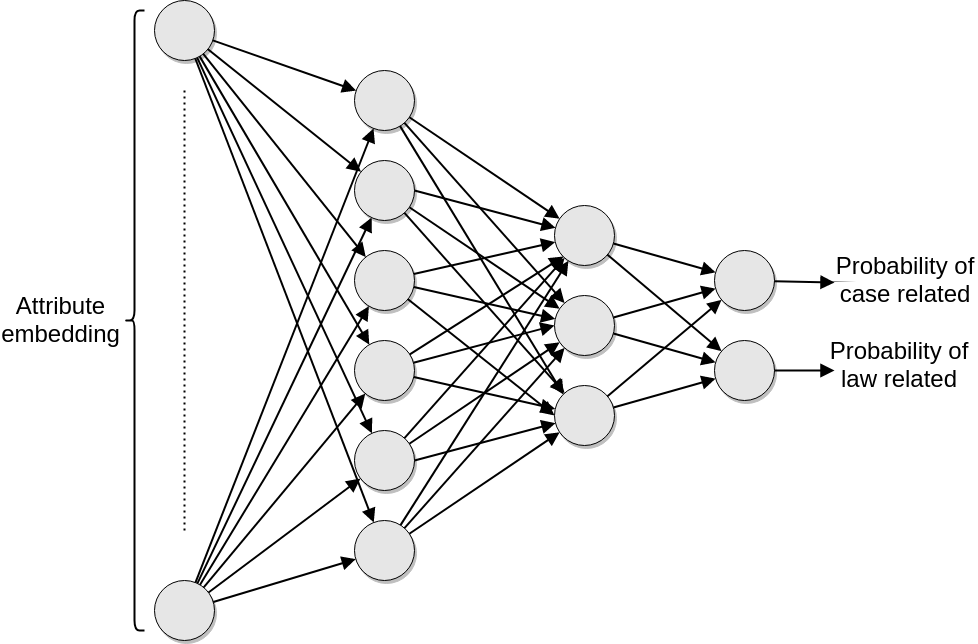
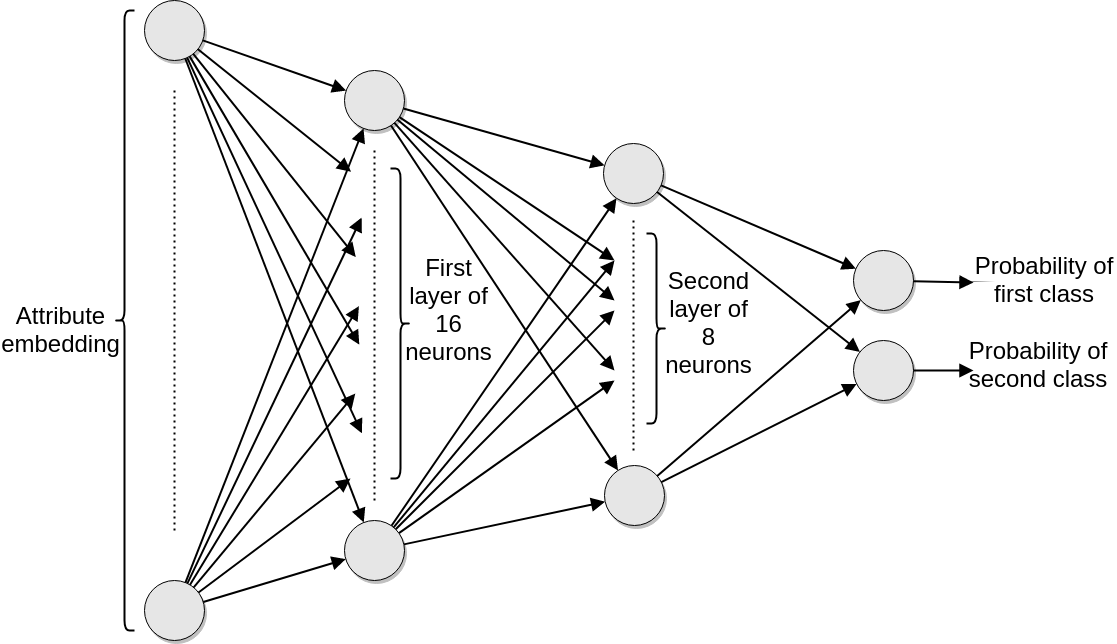
finished without corectur

Changed region(s): [[0.0, 0.0, 1.0, 1.0], [0.6748, 0.6522, 0.7055, 0.6832], [0.6748, 0.3416, 0.7055, 0.3727]]

diff --git a/fi-pdflatex.tex b/fi-pdflatex.tex
@@ -55,15 +55,15 @@
     TeXtitle      = {Automatic Classification of Legal Documents},
     keywords      = {electronic discovery, machine learning, legal domain, natural language processing},
     TeXkeywords   = {electronic discovery, machine learning, legal domain, natural language processing},
-    abstract      = {The thesis focuses on an automation of electronic discovery by predicting relevance of legal documents.
-    The first contribution of this thesis is a description and understanding of the legal data characteristics and a research of the most suitable classification algorithm for the relevance prediction.
+    abstract      = {The thesis focuses on automation of electronic discovery by predicting the relevance of legal documents.
+    The first contribution of this thesis is a description and understanding of the legal data characteristics and research of the most suitable classification algorithm for the relevance prediction.
     The second contribution is a design and implementation of a system for automatic classification of legal documents, which applies the knowledge from this research.
     The system is integrated with the Legato system, which is a collaborative system for documents management that provides comprehensive control over legal cases.},
-    thanks        = {I would like to thank RNDr. Zuzana Nevěřilová, Ph.D. for her support, precious advices and professional guidance. Great thanks also belongs to Ing. Libor Kubečka for the technical guidance, valuable discussions, and patience. Finally, I would like to thank to my family and friends for the support during all my studies.},
+    thanks        = {I would like to thank RNDr. Zuzana Nevěřilová, Ph.D. for her support, precious pieces of advice and professional guidance. Special thanks also go to Ing. Libor Kubečka for the technical guidance, valuable discussions, and patience. Finally, I would like to thank my family and friends for the support during all my studies.},
     bib           = example.bib,
 }
-\usepackage{makeidx}      %% The `makeidx` package contains
-\makeindex                %% helper commands for index typesetting.
+% \usepackage{makeidx}      %% The `makeidx` package contains
+% \makeindex                %% helper commands for index typesetting.
 %% These additional packages are used within the document:
 \usepackage{paralist} %% Compact list environments
 \usepackage{amsmath}  %% Mathematics
@@ -90,35 +90,36 @@
 \DeclareRobustCommand{\bbone}{\text{\usefont{U}{bbold}{m}{n}1}}
 \DeclareMathOperator{\EX}{\mathbb{E}}% expected value
 \usepackage[table]{xcolor}
+\usepackage{tabularx}
 \usepackage{subcaption}
 
 \begin{document}
 \chapter*{Introduction}
 \addcontentsline{toc}{chapter}{Introduction}
 When lawyers, attorneys or paralegals obtain a legal case to work on, one of the first steps is the \textit{Electronic Discovery}.
-They need to search, gather, clean, and organize legal documents in order to find evidences in a legal case \cite{Conrad2010ediscovery}.
-With increasing amount of information in the electronic form, the lawyers increase emphasis on an efficient process of the \textit{Electronic Discovery}.
+They need to search, gather, clean, and organize legal documents in order to find pieces of evidence in a legal case \cite{Conrad2010ediscovery}.
+With increasing amount of information in the electronic form, the lawyers put more emphasis on an efficient process of \textit{Electronic Discovery}.
 
-It is not uncommon that a legal case consists of hundreds to thousands of related documents, which a lawyer needs to scan through to understand a case and find a useful information, potentially an evidence.
-Therefore, many automated tools have emerged that are specifically designed to help in the \textit{Electronic Discovery}.
+It is not uncommon that a legal case consists of hundreds to thousands of related documents, which a lawyer needs to scan through to understand a case and find useful information, potentially a shred of evidence.
+Therefore, many automated tools have emerged that are specifically designed to help in the \textit{Electronic Discovery} process.
 The most basic ones enable more or less advanced full-text search, which is a well-studied field called \textit{Information Retrieval}.
-Other field, frequently applied in the legal domain, is the \textit{Artificial Intelligence}, which has delivered a numerous purposeful tools that are trying to substitute a lawyer in various tasks.
+Another field, frequently applied in the legal domain, is the \textit{Artificial Intelligence}, which has delivered numerous purposeful tools that are trying to substitute a lawyer in various tasks.
 The tool presented in this thesis belongs to this category.
 
-The goal of this research is to study, design and evaluate a mechanism that is able to highlight legal documents with important information and filter out the irrelevant.
-Such tool could possibly save the time spent on reading the documents and so, increase the lawyers' efficiency.
-The tool is not expected to be 100\% successful, as the relevance is a subjective factor and usually depends on a wide context, that is hard to acquire by the tool.
-Nevertheless, the tools with at least a reasonable performance has proven to be helpful in the past \cite{roitblat2010comparison}, especially the low-precision \& high-recall systems (more in the section \ref{sec:related_relevance}).
+The goal of this research is to study, design and evaluate a mechanism that is able to highlight legal documents with valuable information and filter out the irrelevant.
+Such tool could save the time spent on reading the documents and thus, increase the lawyers' efficiency.
+The tool is not expected to be 100\% successful, as the relevance is a subjective factor and usually depends on a broad context, that is hard to acquire by the tool.
+Nevertheless, the tools with at least a reasonable performance have proven to be helpful in the past \cite{roitblat2010comparison}, especially the low-precision \& high-recall systems (more in the section \ref{sec:related_relevance}).
 
-The other contribution of this thesis is the implementation of the aforementioned tool and integration with the Legato system. 
-Legato is a collaborative system for legal documents management that provides comprehensive control over legal cases including full-text search, sorting of important information and visualization of events in time.
-The tool presented here belongs to other advanced features complementing the Legato system (\ref{sec:legato_advanced}).
+The other contribution of this thesis is the implementation of the tool mentioned above and integration with the Legato system. 
+Legato is a collaborative system for legal documents management that provides comprehensive control over legal cases including full-text search, sorting of relevant information and visualization of events in time.
+The tool presented here belongs to the group of advanced features complementing the Legato system (\ref{sec:legato_advanced}).
 
 The thesis is structured in the following way.
-The \hyperref[chp:related_work]{first chapter} discusses the previous work on the artificial intelligence in the legal domain, similar tools and how the concept of relevance is understood in the legal domain.
-The \hyperref[chp:legato]{second chapter} introduces the Legato system, its main use cases and advanced features.
-In the \hyperref[chp:data_characteristics]{third chapter}, the working dataset is described and the exploratory analysis provides some insight into the data and its characteristics.
-The \hyperref[chp:nlp]{fourth chapter} presents a research of the natural language processing algorithms and tools to eventually pick the most suited for our purpose.
+The \hyperref[chp:related_work]{first chapter} discusses the previous work on artificial intelligence in the legal domain, similar tools, and understanding of the concept of relevance.
+The \hyperref[chp:legato]{second chapter} introduces the Legato system, its primary use cases, and advanced features.
+In the \hyperref[chp:data_characteristics]{third chapter}, the working dataset is described, and the exploratory analysis provides some insight into the data and its characteristics.
+The \hyperref[chp:nlp]{fourth chapter} presents research of the natural language processing algorithms and tools to eventually pick the most suited for our purpose.
 Next, the \hyperref[chp:classification]{fifth chapter} elaborates the attributes and estimators applied to predict the relevance.
 The \hyperref[chp:implementation]{sixth chapter} explains the implementation of the tool that emerged based on this research and its integration with Legato.
 Finally, the \hyperref[chp:evaluation]{seventh chapter} shows some small experiments that helped assess intermediate decisions and evaluates the final models.
@@ -1307,9 +1308,9 @@ Even though the idea of extending network is not precise, as the embeddings are 
 
 Another reason, why neural network best suites our needs, is that it is an incremental estimator \cite{incrementalScikit}.
 Incremental estimators enables to iteratively learn and improve on a new batch of data without forgetting the old state.
-Other incremental estimators solving classification problems include Naive Bayes (NB) or Stochastic Gradient Descent (SGD) learning.
+Other incremental estimator solving classification problems is the Naive Bayes (NB) classifier.
 
-The final structure of the neural network has an input layer of dimension 300, two hidden layers of 6 and 3 neurons and 2 output neurons representing binary classes.
+The final structure of the neural network has an variable input layer dimension based on the attribute, two hidden layers of 16 and 8 neurons and 2 output neurons representing binary classes.
 Such a model is prepared to predict law-related vs case-related sentences as well as relevant vs irrelevant sentences. Note that even though there are three final classes of relevance (HOT, WARM, COLD), the WARM class is neglected here and later decided by the top-level models.
 
 \begin{figure}[H]
@@ -1318,8 +1319,8 @@ Such a model is prepared to predict law-related vs case-related sentences as wel
 \includegraphics[width=\textwidth]{img/Bottom-level_NN}
 \end{figure}
 
-The \textit{sigmoid} activation function proved to be the most successful in all layers (\ref{eval:bottom-model-tuning}).
-During the model training, an Adamax optimizer with learning rate of 0.02 was applied in 100 epochs and batch size of 10.
+The \textit{sigmoid} activation function showed to be the most successful in all layers.
+During the model training, an Adamax optimizer with learning rate of 0.02 was applied in 150 epochs and batch size of 20 to 100 depending on the number of training data.
 To prevent the overfitting, the model stopped learning in case of increasing loss on a validation set (10\% of training data).
 The applied loss function is called the Cross Entropy (CE), which is defined as follows:
 $$
@@ -1590,7 +1591,7 @@ Even though the accuracies are close to 70\% for some combination of $h$ and $w$
 \includegraphics[width=\textwidth]{img/doc_two_class}
 \end{figure}
 
-The precision and recall is impossible to compute due to the ternary problem instead of binary. In the evaluation chapter, the WARM and HOT labels will be merged to compute these two scores and compare the results with other systems.
+The precision and recall is impossible to compute due to the ternary problem instead of the binary. In the evaluation chapter, the WARM and HOT labels will be merged to compute these two scores and compare the results with other systems.
 Lastly, it is worth to mention that the final model, as applied in the application, includes one more attribute -- the commentary.
 Users can comment on documents in Legato, which creates a potentially valuable information in the relevance prediction.
 Unfortunately, there are no ground data to either train or evaluate the performance of this attribute.
@@ -1767,10 +1768,8 @@ with login \textit{clawd@gmail.com} and password \textit{clawd}.
 Users are free to create new cases and upload their own documents to evaluate the relevance.
 
 
-
 \chapter{Evaluation}
 \label{chp:evaluation}
-
 \section{Decision point evaluation}
 
 \subsection{Bottom-level estimator selection}
@@ -1880,6 +1879,7 @@ The conventional embedding is simply too large and sparse to deliver required am
 
 
 \subsection{Contribution of separate case and law-related models}
+\label{sec:eval_law_case_contribution}
 This experiment evaluates the contribution of the idea to separate the documents to case-related and law-related.
 The results were obtained by measuring the accuracy of the document classifier on attributes as explained in the section \ref{sec:document-classifier}.
 The two variants differ in the inclusion or exclusion of a binary attribute specifying the case-related or law-related affiliation.
@@ -1888,6 +1888,7 @@ Ten runs of the same settings (Random Forest with 20 estimators and 7 tree depth
 The mean of the accuracy in the variant without the label is $0.736$ and with the label $0.743$.
 The average accuracy of the variant with the label is only by $0.7\%$ higher, which is very negligible increase since this amount corresponds to one or two documents out of all 263. 
 To conclude that the label flag is not a real contribution, one can check if the confidential intervals intersects: the $95\%$ interval for the variant with the label $(0.735, 0.751)$ truly intersects the $95\%$ interval of the other variant $(0.729, 0.742)$.
+Based on this experiment, the Law-Case classifier is not included in the application.
 
 
 % 0.733, 0.733, 0.733, 0.745, 0.749, 0.737, 0.726, 0.756, 0.726, 0.722 - without label
@@ -1899,6 +1900,46 @@ To conclude that the label flag is not a real contribution, one can check if the
 \subsection{Bottom-level Model}
 \label{eval:bottom-model-tuning}
 % tuning of the bottom-level NN, i.e. activation functions, optimizers and layers
+Following the analysis from the estimator selection experiment (sec. \ref{eval:bottom-model-selection}), this section presents the parameter tunning of the estimator.
+Based on the previous experiments with the neural network, the chosen parameters and values to tune are the following:
+\begin{itemize}
+\item \# of neurons in the first layer: 128, 64, 32, 16
+\item \# of neurons in the second layer: 16, 8, 4, 2
+\item learning rate: 0.002, 0.005, 0.01, 0.02
+\item batch size: 20, 60, 100, 300, 500, 1000
+\item \# of epochs: 20, 100, 150
+\end{itemize}
+The activation function was not tuned since only the \textit{sigmoid} performed well, and therefore, was the only option.
+
+For the purpose of the tunning, the sentence meaning was applied as the training data with labels according to the case-related and law-related classes.
+The \textit{Scikit-learn} library provided a tool called \textit{GridSearchCV}\footnote{\url{http://scikit-learn.org/stable/modules/generated/sklearn.model_selection.GridSearchCV.html}}, which tries all possible combinations of the parameters and computes its accuracy in a parallel threads.
+
+\begin{figure}[H]
+\centering
+\caption{Neural network parameter tunning on sentence meaning and Law-Case classes}
+\label{fig:gridsearch}
+\begin{tabularx}{\textwidth}{|c|X|X|X|X|X||X|}
+\hline
+\rowcolor{gray!30}
+\textit{\#} & \textbf{Learning rate} & \textbf{Batch size} & \textbf{Epochs} & \textbf{First layer} &  \textbf{Second layer} & \textbf{Accuracy}  \\ \hline
+1 & 0.02 & 20 & 150 & 16 & 8 & 0.835  \\ \hline
+2 & 0.02 & 20 & 100 & 16 & 8 & 0.832\\ \hline
+3 & 0.02 & 20 & 100 & 32 & 4 & 0.832\\ \hline
+4 & 0.02 & 20 & 100 & 64 & 16 & 0.831\\ \hline
+5 & 0.02 & 20 & 150 & 32 & 8 & 0.831\\ \hline
+6 & 0.02 & 60 & 150 & 32 & 8 & 0.83\\ \hline
+7 & 0.02 & 20 & 100 & 32 & 8 & 0.83\\ \hline
+8 & 0.02 & 60 & 150 & 64 & 2 & 0.83\\ \hline
+9 & 0.02 & 100 & 150 & 32 & 4 & 0.829\\ \hline
+10 & 0.02 & 20 & 100 & 32 & 16 & 0.829\\ \hline
+\end{tabularx}
+\end{figure}
+
+The top ten results are shown in the table \ref{fig:gridsearch}.
+Notice that the accuracy does not necessarily increase with the increasing number of neurons.
+The first variant with the learning rate of $0.02$, $150$ epochs, $16$ neurons in the first layer and $8$ in the second layer is applied in the research, as well as in the application.
+It is worth noting that the batch size will be changed for different settings according to the size of the training dataset.
+Thanks to the early stopping criteria, which terminates the learning when the accuracy does not increase in 4 consecutive epochs, the number of epochs can be understood as an upper bound rather than a precise number.
 
 \subsection{Top-level Model}
 \label{eval:law-case-model-tuning}
@@ -1919,35 +1960,103 @@ In case the model is trained on all but one document (Leave-One-Out), the accura
 \section{Results}
 This section summarizes the final results of the classification, evaluates the individual models and show the performance on selected sentences and documents.
 
-Case-Law model
-Unfortunately, the contribution is too low to be worth the implementation, and therefore, the final model is left without the Law-Case model. However, the research was not pointless... might be better with more data.
+\subsection{Evaluation of Law-Case classifier}
+Unfortunately, the Law-Case classifier did not showed to be useful (\ref{sec:eval_law_case_contribution}) in the relevance prediction.
+As the application is focused primarily on the relevance, the contribution is too low to be worth the implementation, and therefore, the final application is left without the Law-Case model. 
 
-% 1. print precision and recalls for model with merged WARM and HOT
-% 2. compare with the algorithm already in Legato - Hot Words
-% 3. try evaluate some short passages from document and show concrete examples how it works
+However, the experiments were not pointless, since it discovers surprisingly poor relation between the intuition about the types of documents and its relevance.
+Also, the information about the class might be useful for lawyers in other tasks than a relevance prediction.
+Possibly, the model would be more efficient with several times larger corpus of documents, but this research lacks resources to conclude that.
 
+\subsection{Evaluation of Sentence classifier}
+As mentioned in the section \ref{sec:sentence-classifier}, the classification of sentences is a difficult tasks, mainly due to very subjective view on its relevance.
+The proposed Sentence classifier in the final setting achieved a precision of $0.22$ and recall of $0.65$.
+This means that there is a $65\%$ chance that a relevant sentence will be recognized by the tool.
+The positive fact is that if multiple sentences in a document are relevant, than there is a high probability that they will be recognized.
+The negative fact is that only one out of four to five sentences is truly relevant.
+This imprecision might be tolerated by users as the main focus is on the recall.
+
+To obtain a better insight about the algorithm, the following examples show specific sentences with their predicted and true relevances.
+All sentences are from the case ``Davis v. HappyLand Toy Company", where a little boy named Joey dies after he swallows toy beads.
+The HappyLand Toy Company is sued for the chemicals used in the toy.
+
+The first document is a testimony of the babysitter, who was looking after Joey when the incident happened.
+An example of a correctly classified sentence follows:
+(Note that the sentences are already preprocessed and sometimes cut in clauses)
+\begin{quote}
+``much worse though was that joey seemed to have some breathing problems''
+\end{quote}
+The sentence contains two words of interest: the name of the victim and a medical term that relates to his health (breathing problems).
+As the medical term probably appeared in other documents as well, its appearance could be the reason, why the sentence is predicted as relevant.
+
+Next sentence was recognized by the classification as relevant though it is not:
+\begin{quote}
+``i do a lot of babysitting for the palmer family and they recommended me to the davis family''
+\end{quote}
+Here, possibly the names (``palmer'' and ``davis'') caused the higher relevance, even though it is not necessary relevant for the case.
+
+No relevant sentence was classified as irrelevant, which means the recall is 1.
+However, the precision is only 4\% with 138 sentences classified as relevant out of 186.
+In this case, the high relevance is beneficial, since the document is subsequently correctly classified as HOT.
+
+The second document is a record of a doctor visit, where the annotator picked the name of the patient as relevant and the breathing troubles, as can be seen from the view \ref{fig:sent_example}.
+
+\begin{figure}[H]
+\caption{Example of a sentence relevance in WARM document}
+\label{fig:sent_example}
+\includegraphics[width=\textwidth]{img/sent_example}
+\end{figure}
+
+Our algorithm missed the patience name, but highlighted both sentences of the bottom paragraph.
+Therefore, both the precision and recall are $0.5$.
+The algorithm has troubles with the structured documents, because the OCR analysis sometimes adds strange signs to the sentences.
+For example, the above check boxes are present in the sentence as ``iii yes izl no''.
+
+\subsection{Evaluation of Document classifier}
+The document classifier achieved an accuracy of $0.74$ with a baseline of $0.40$, which is  a significant contribution (\ref{sec:document-classifier}); however, to compare the results with the previous studies, we need to compute the precision and recall.
+Hence, the following evaluation considers all WARM documents as HOT in the sake of the high-recall strategy.
+Again, the results are varying according to a threshold $p$, which is a limit that a sentence need to exceed to be considered as relevant.
+Results are displayed in the graph \ref{fig:doc_PR}.
+
+\begin{figure}[H]
+\caption{Precision and recall of the binary relevance prediction of documents}
+\label{fig:doc_PR}
+\includegraphics[width=\textwidth]{img/doc_PR}
+\end{figure}
+
+The results are considerably higher than in the case of sentences according to the expectation.
+On the other hand, the percentage of relevant documents is more than $73$, which makes the classification easier task than in the sentence environment, where only 17\% are relevant.
+For the same reason, the results are hard to compare with the previous research on the document relevance (\ref{sec:related_relevance}), where the precision was only $20\%$ and recall $50\%$, because the amount of relevant documents was as low as $9\%$.
+
+Next paragraph reviews the success rate of the ternary-class version of the model (which is implemented) on the mentioned case ``Davis v. HappyLand Toy Company".
+Even though only $55\%$ of all HOT cases were recognized as HOT, the rest of them were marked WARM.
+From 20 COLD documents, 11 were correctly recognized as COLD, but more importantly, only 2 of the misclassified documents were marked as HOT.
+The conclusion is that the prediction is not 100\% precise; however, it was able to learn basic patterns and behaves reasonably.
 
 \chapter{Conclusion}
+This thesis searched answers on the questions about the application of artificial intelligence in the E-discovery process, especially: how are the legal documents different from others, what makes a legal document relevant, what features of a legal document matters the most, if the structure is important in the relevance prediction, and what tools and estimators work best for relevance prediction in the legal domain.
+Some of the questions about the nature of the legal data are elaborated in the chapter Data Characteristics (\ref{chp:data_characteristics}), the important attributes for the relevance prediction are studied in the section \ref{sec:attributes} and the most suited estimators are examined in the Evaluation chapter (\ref{chp:evaluation}).
 
-% future work
-% - Watson NLU enables to create custom language model, which could recognize entities, keywords and relations even more precise if we feed it with legal data. We could not, since we have not enough text, but a future research could work with this.
+During the data analysis, two ideas on improvement of the relevance prediction were proposed: determining a document type prior to the relevance, and shifting of focus on sentences rather than documents.
+The first idea failed to prove to be useful, which was influenced the further research and implementation.
+On the other hand, focusing on sentences showed to be a beneficial step towards an efficient relevance prediction.
+As a result, the performance of the presented models reached higher efficiency than human annotators and similar results as other tools in the same domain.
 
-% - Watson NLU enables 462 entities - possible to include all of them
+Besides the research, a simultaneous outcome of the thesis was also the implementation of a system that applies the mentioned techniques and is integrated with an E-discovery system Legato.
+The system presented here is already implemented in the instance of the Legato that contains innovative features.
+If the user testing confirms usability and usefulness of the extension, it will reach the final release.
 
-% Matter of privacy - how to ensure the models do not enable to retrieve information about other case
+Many aspects of the system, such as training of the models, parameter tunning, or overall system configuration, can be further improved in the future.
+Due to the fact that the models were trained on a relatively small dataset, they will tend to overfit and most likely fail on new types of documents. There is still multiple possibilities how to improve the system.
+The future work might consider wider range of entities since the \textit{Watsion NLU} provides 462 types, from which only 6 were applied.
+Other improvement could train a recurrent neural network to learn patterns in the sequence of words, instead of converted attributes.
+Also, the \textit{Watson NLU} provides a possibility to create a custom language model, which could recognize entities, keywords and relations even more precise when focused exclusively on the legal text. The present research could not utilize this feature due to small amount of training data.
 
-% case lookup - find similar cases
+The relevance prediction, as well as other advanced features applying artificial intelligence, will become an essential part of each innovative E-discovery system.
+There are still opportunities for further enhancements, which might rapidly speed up and ease the work for lawyers.
+Hopefully, the presented research helps lawyers and software developers in future decisions to achieve these enhancements.
 
-% LSTM RNN networks - tried, but did not succeed, but maybe because not enough tunning
-
-% mention everlaw
-
-  \printbibliography[heading=bibintoc] %% Print the bibliography.
-
-  \makeatletter\thesis@blocks@clear\makeatother
-  \phantomsection %% Print the index and insert it into the
-  \addcontentsline{toc}{chapter}{\indexname} %% table of contents.
-  \printindex
+\printbibliography[heading=bibintoc] %% Print the bibliography.
 
 \appendix %% Start the appendices.
 \chapter{An appendix}
